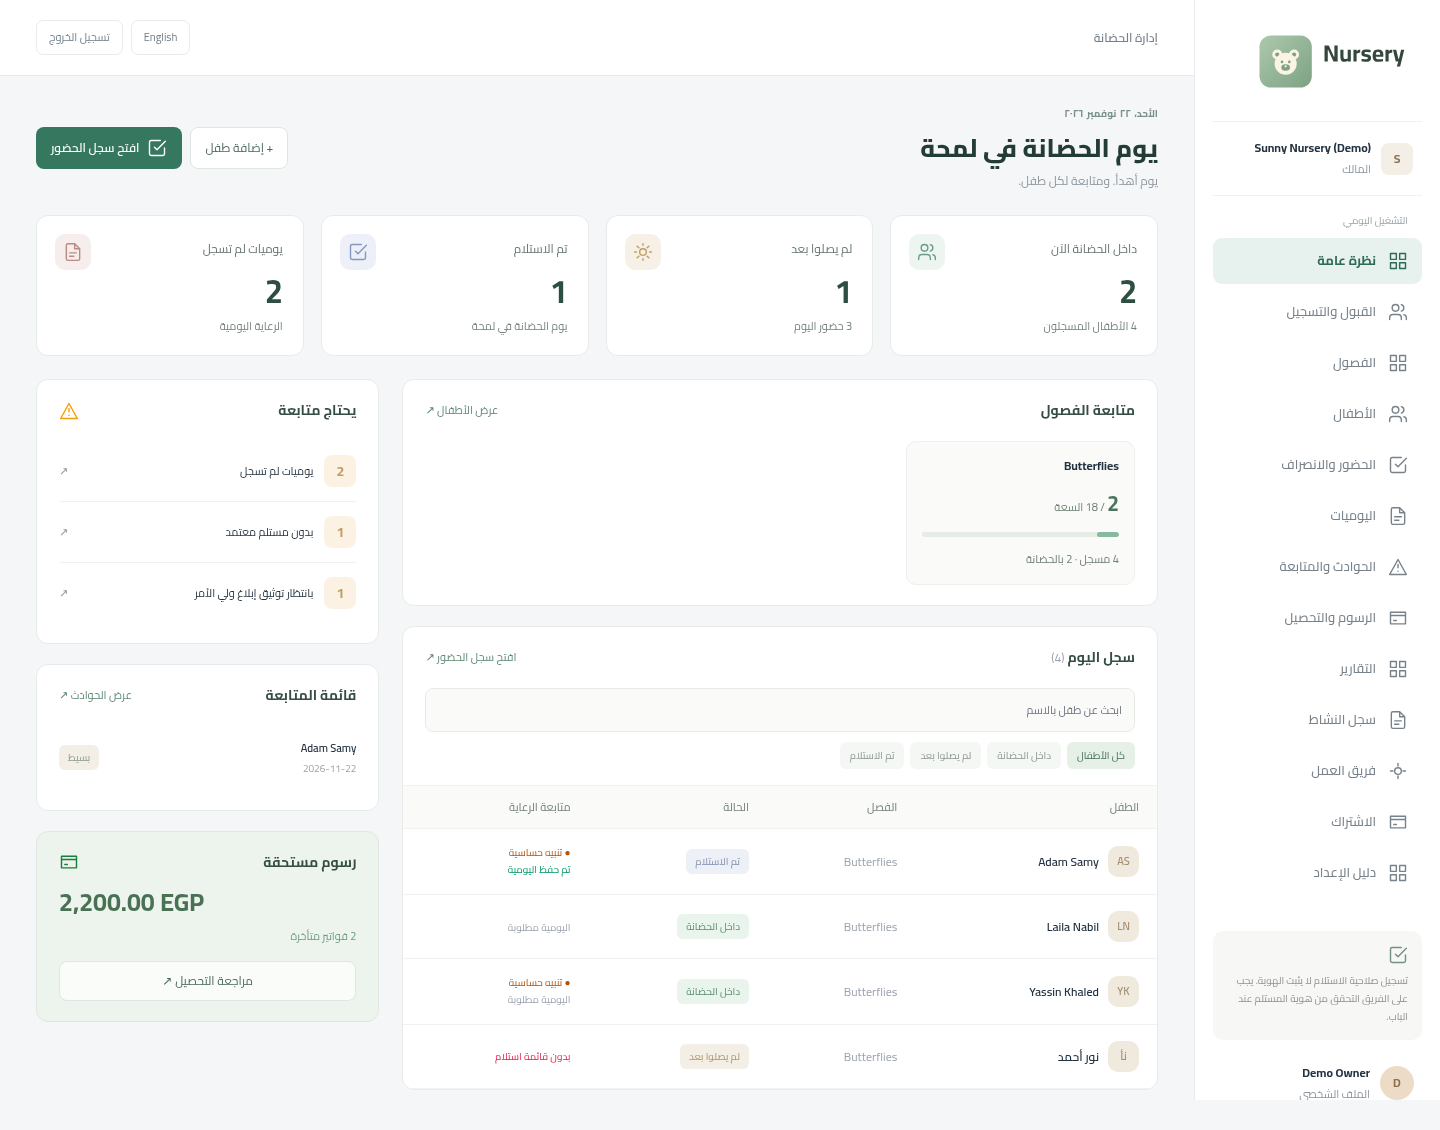
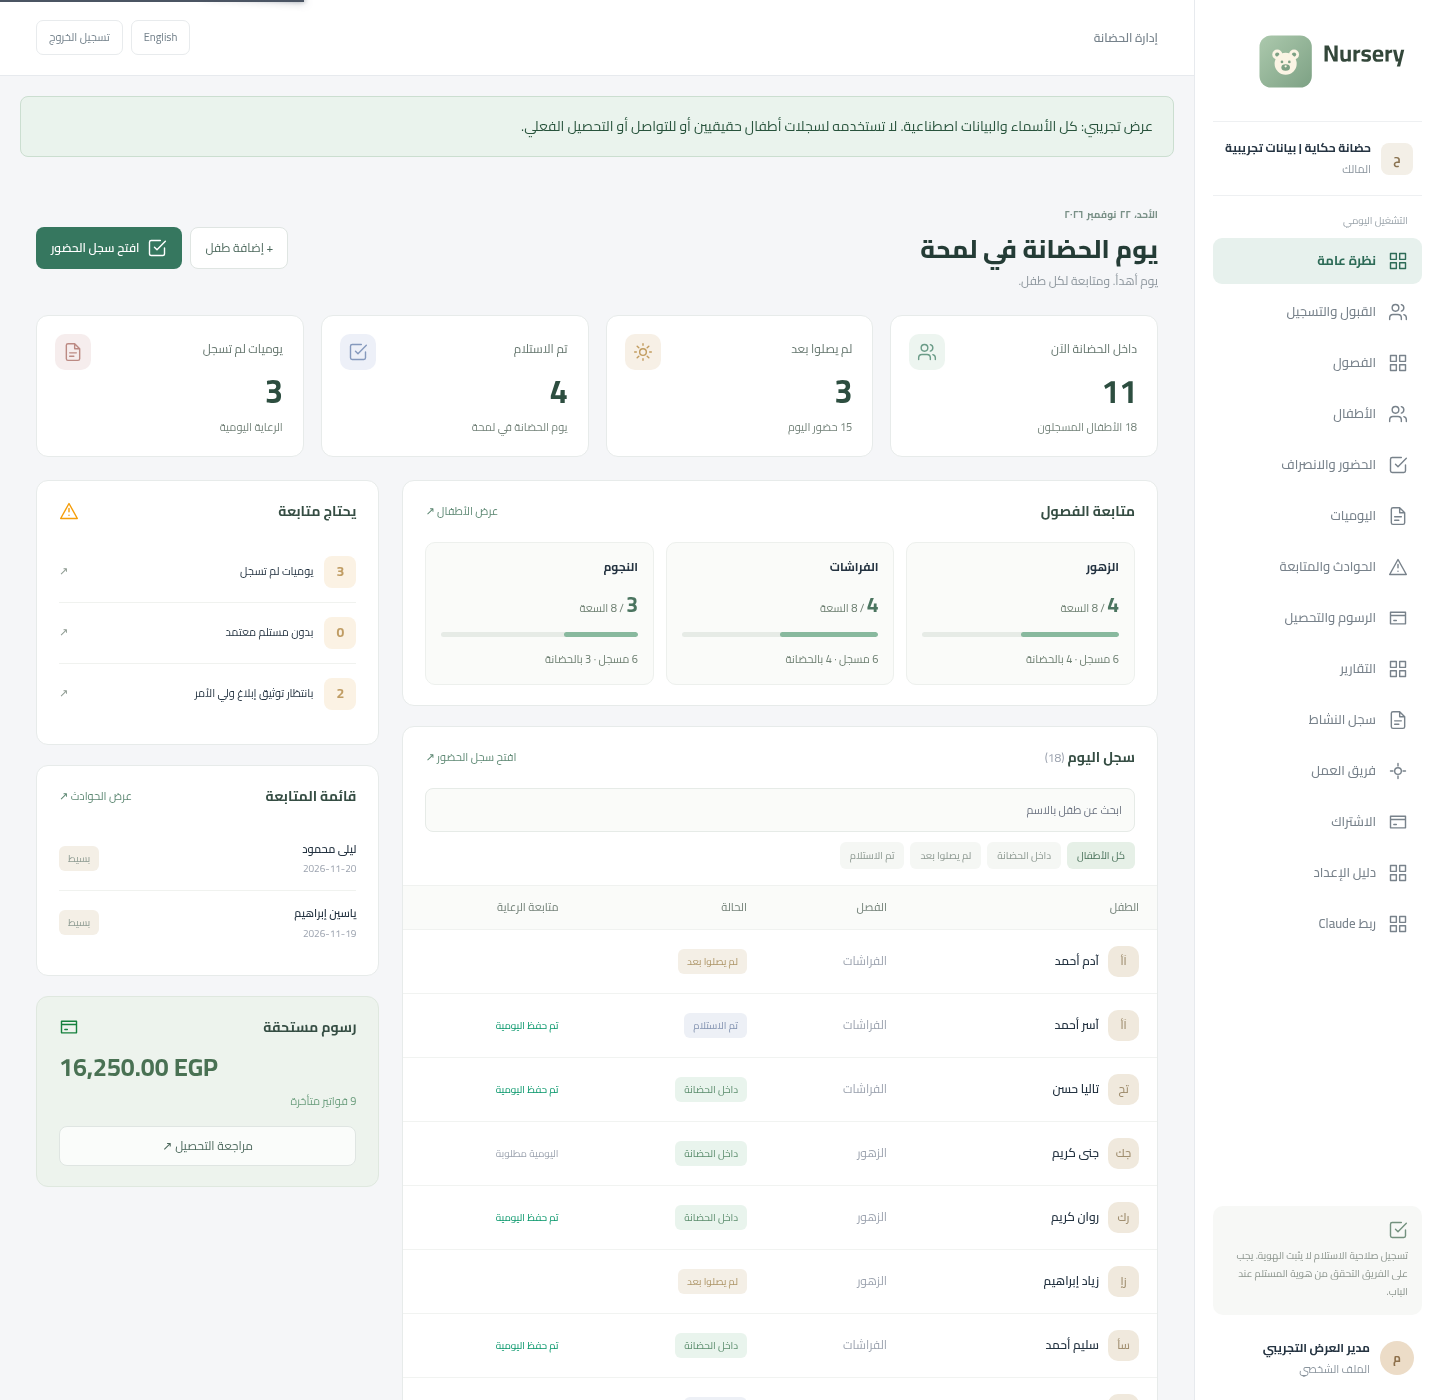
Use data-rich synthetic dashboard previews for both languages and phones

diff --git a/resources/js/Pages/Welcome.vue b/resources/js/Pages/Welcome.vue
@@ -174,10 +174,12 @@ function submit() {
                             }}</span
                             ><span>✳</span>
                         </div>
+                        <picture>
+                            <source media="(max-width: 700px)" :srcset="L('/images/dashboard-rich-mobile-ar.png', '/images/dashboard-rich-mobile-en.png')" width="390" height="1200" />
                         <img
-                            src="/images/workspace-preview.png"
+                            :src="L('/images/dashboard-rich-ar.png', '/images/dashboard-rich-en.png')"
                             width="1440"
-                            height="1000"
+                            height="1400"
                             :alt="
                                 L(
                                     'معاينة لوحة Nursery ببيانات تمثيلية',
@@ -185,6 +187,7 @@ function submit() {
                                 )
                             "
                         />
+                        </picture>
                     </div>
                     <div class="product-caption">
                         <span>✳</span
@@ -831,6 +834,10 @@ function submit() {
 </template>
 
 <style scoped>
+.product-window picture { display: block; }
+.product-window img { height: auto; }
+@media (max-width: 700px) { .product-window { transform: none; } }
+
 .landing-footer { flex-wrap: wrap; }
 .builder-credit {
     flex-basis: 100%;
